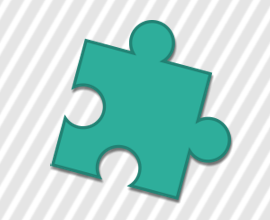
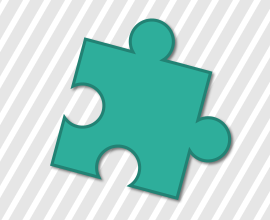
New SVG Plugin defaultThumbnail

diff --git a/style.css b/style.css
@@ -1248,6 +1248,9 @@ ul.contact-info li i {
     float: right;
     margin: 0 0 1em 2em;
 }
+.portfolio-detail-view.card .content > .image.default {
+    background-color: #2f2f2f;
+}
 /*-----------------------------------------------------------------------------------*/
 /*	PORTFOLIO NAVIGATION
 /*-----------------------------------------------------------------------------------*/

diff --git a/style/css/ie8.css b/style/css/ie8.css
@@ -56,3 +56,6 @@ body {
 .items li.defaultThumbnail.active a img {
     filter: progid:DXImageTransform.Microsoft.Alpha(Opacity=100);
 }
+.portfolio-detail-view.card .content > .image.default {
+    display: none;
+}

diff --git a/plugins.md b/plugins.md
@@ -14,8 +14,7 @@ portfolio:
     utility: Utility
     theming: Theming Extensions
   defaultThumbnail: plugins/images/thumbnails/plugin.png
-  defaultImage: themes/images/fullsize/default_theme.png
-
+  defaultImage: plugins/images/fullsize/plugin.svg
 ---
 
 {% include portfolio.html portfolio=site.plugins %}
